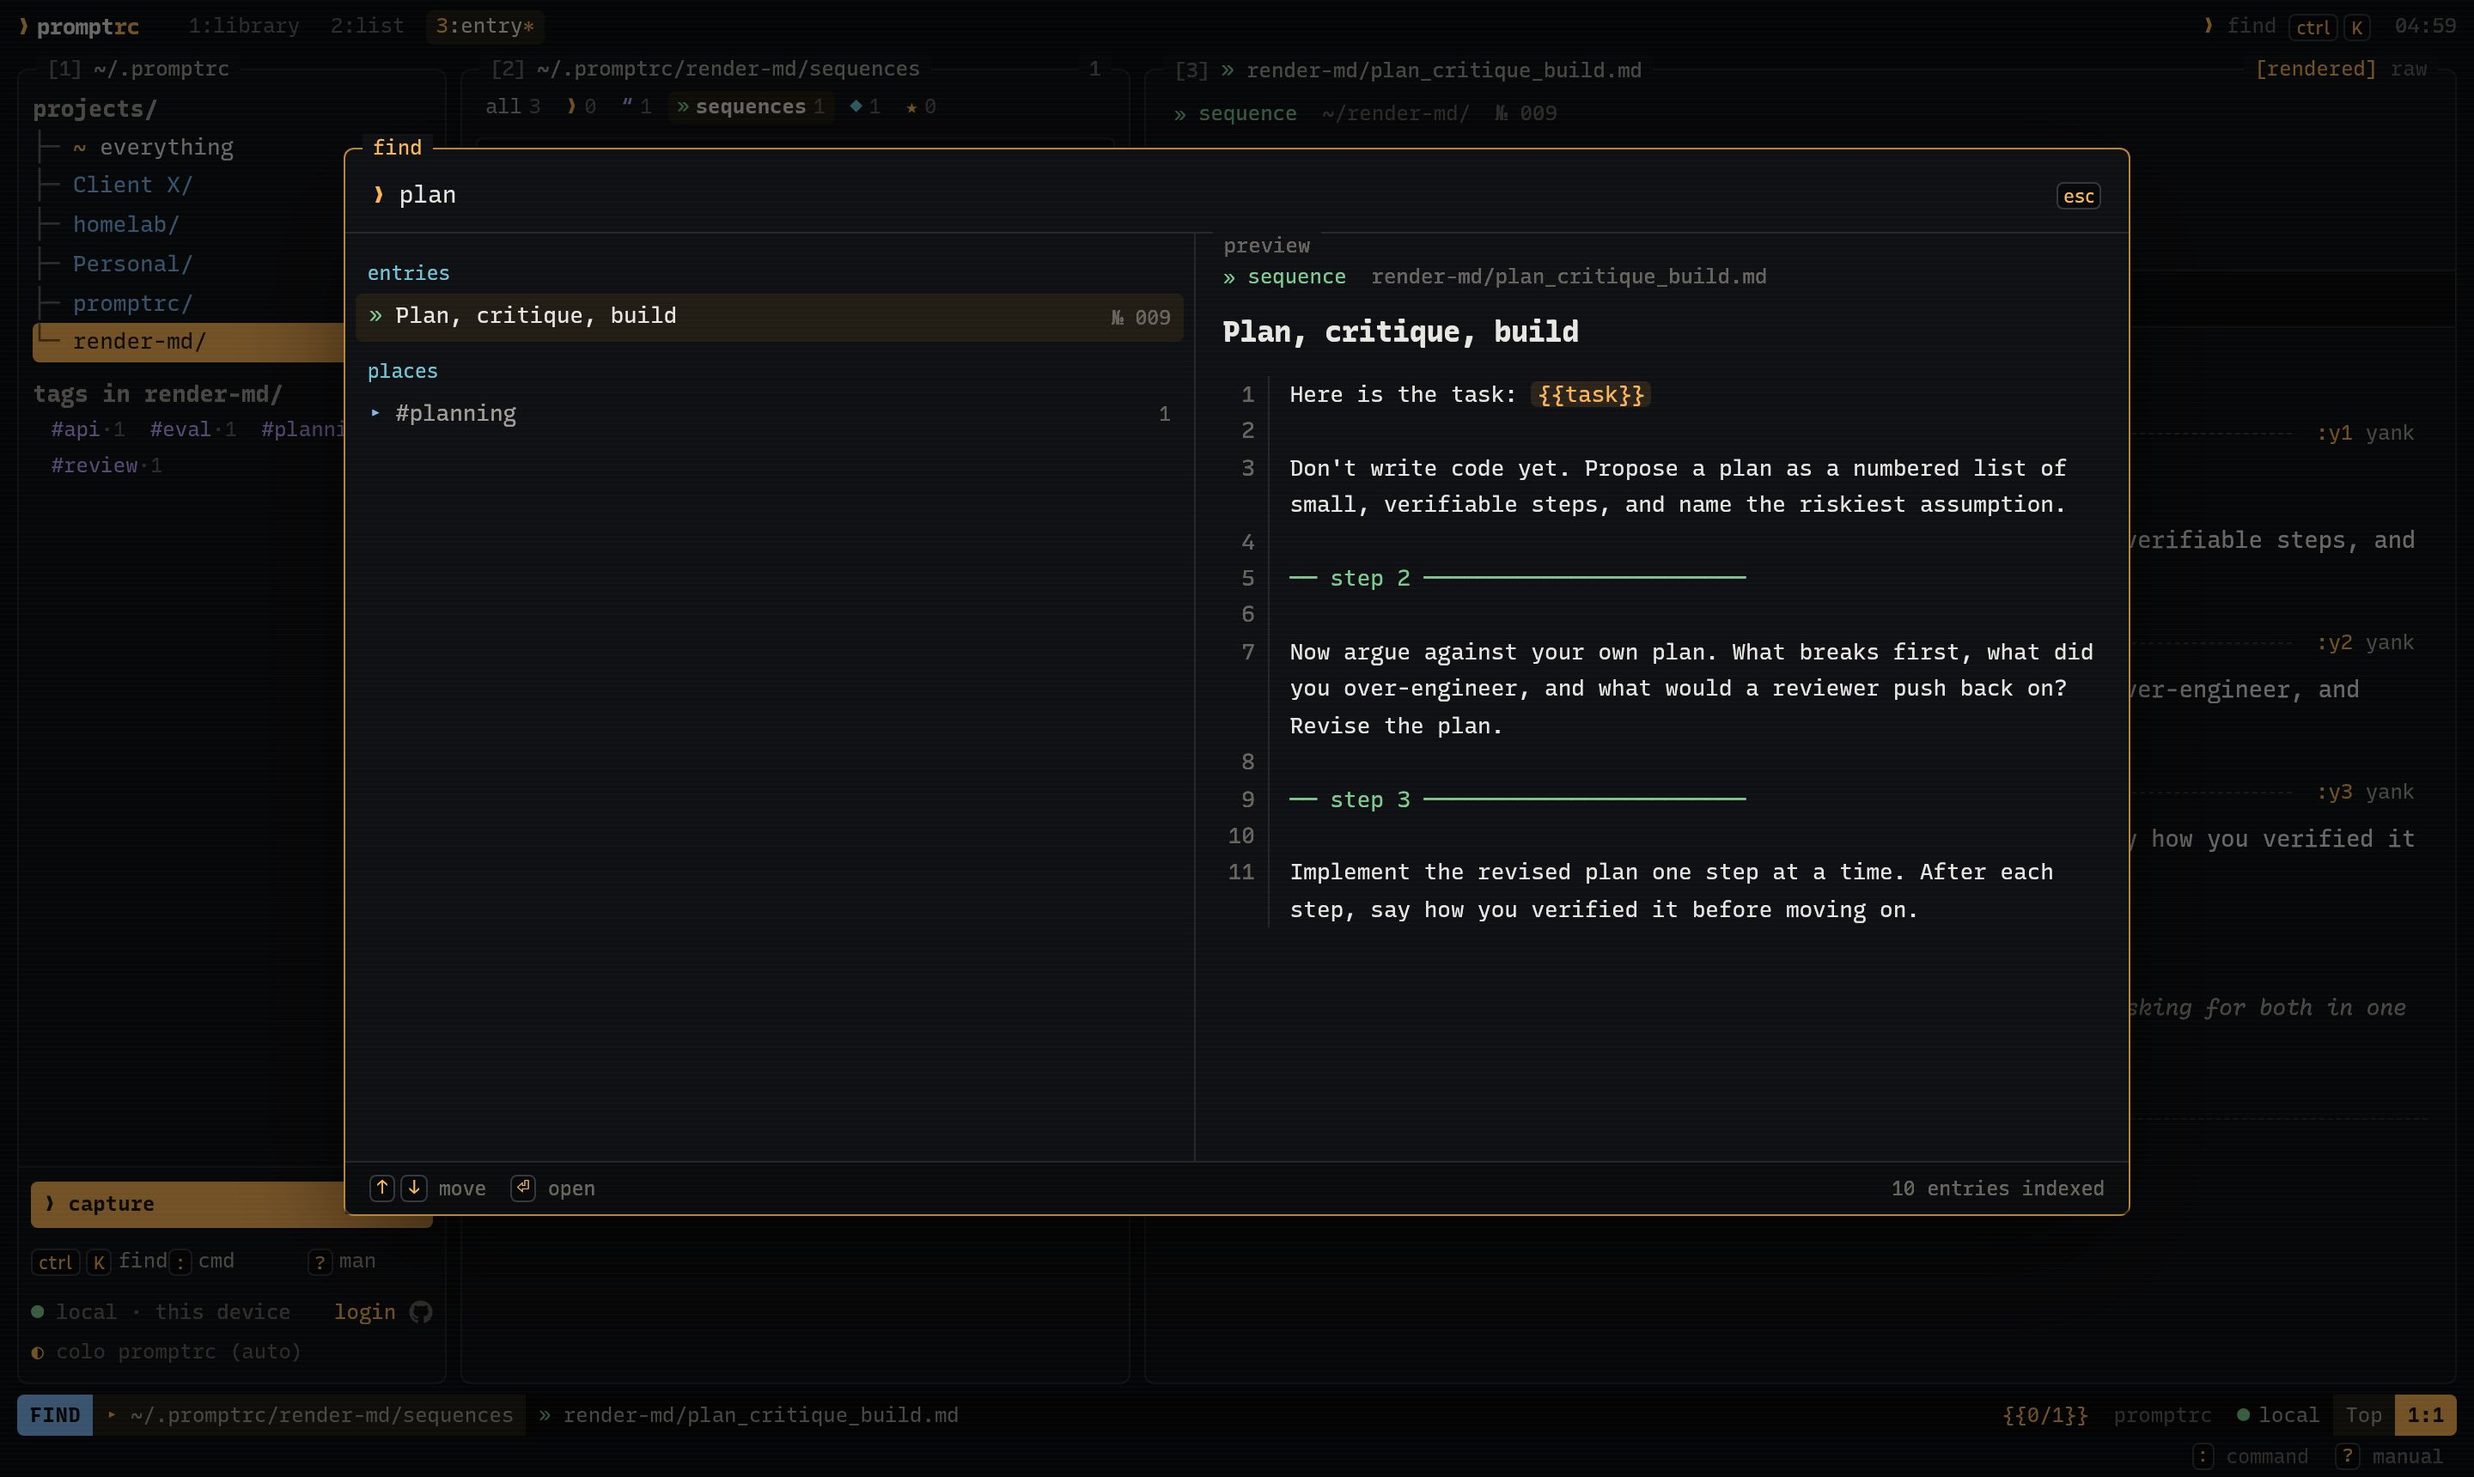
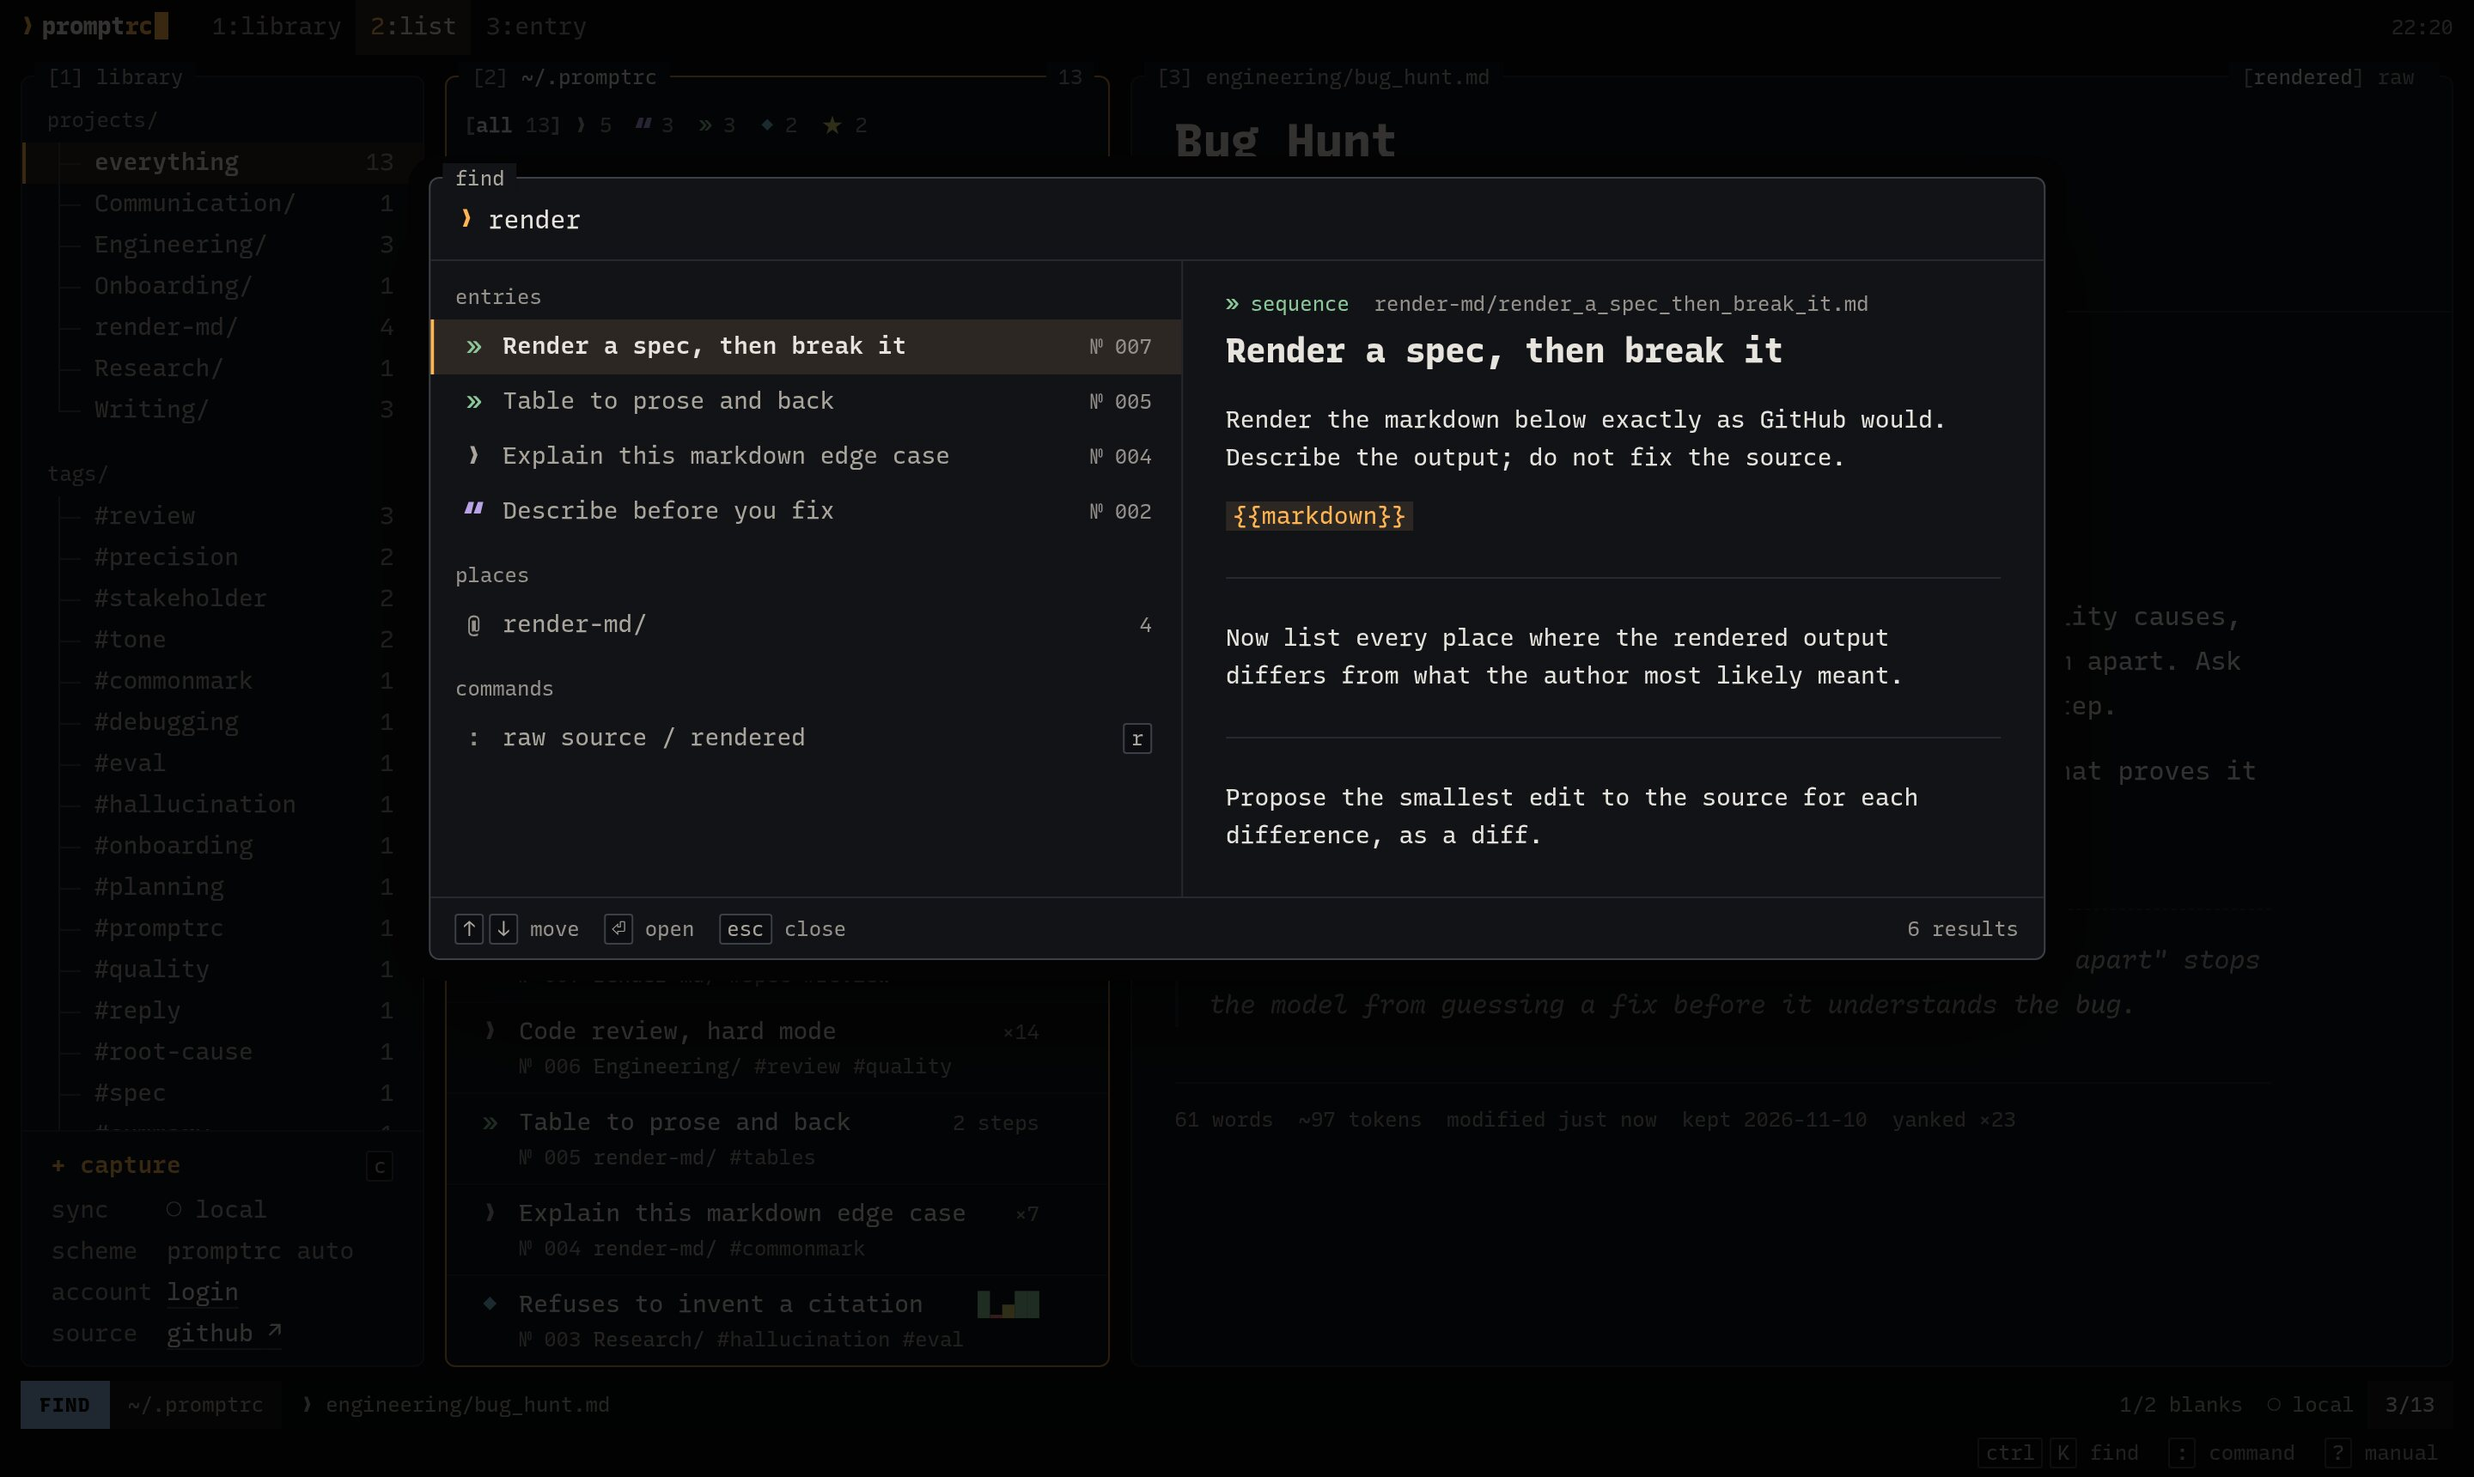
Refresh the README screenshots for the new look

diff --git a/README.md b/README.md
@@ -38,7 +38,7 @@ Every entry lives in a **project** and can carry **notes** (why it works, what g
   </tr>
   <tr>
     <td width="50%"><img src="docs/screenshots/command-line.jpg" alt="The vim-style command line open at the bottom of the screen, with a wildmenu completing :cd with project names" /></td>
-    <td width="50%"><img src="docs/screenshots/finder.jpg" alt="The Telescope-style finder: results on the left, a line-numbered preview of the highlighted sequence on the right" /></td>
+    <td width="50%"><img src="docs/screenshots/finder.jpg" alt="The Telescope-style finder: results on the left, a rendered preview of the highlighted sequence on the right" /></td>
   </tr>
   <tr>
     <td align="center"><sub><kbd>:</kbd> — the command line, with completion and history</sub></td>
@@ -63,8 +63,8 @@ Every entry lives in a **project** and can carry **notes** (why it works, what g
 - **Capture in seconds** — <kbd>c</kbd> floats a capture shell over whatever you're doing. Paste, pick a kind, <kbd>⌘</kbd><kbd>↵</kbd>. The title comes from the first line if you skip it.
 - **Fill-in blanks** — write `{{audience}}` or `{{tone | calm}}`; the viewer turns them into slots you type straight into, and remembers what you typed per entry.
 - **glow and bat** — read entries rendered, or press <kbd>r</kbd> for the raw markdown with line numbers and syntax colour.
-- **Benchmarks as a test runner** — `:log claude-opus-5-5 pass decision led` records a run; the ledger shows ✓/~/✗ rows, a pass rate and a sparkline.
-- **Seven colorschemes** — `:colorscheme promptrc | daylight | phosphor | green-screen | tokyo-night | catppuccin | gruvbox`. The phosphor and green-screen CRTs get scanlines, glow and a vignette.
+- **Benchmarks as a test runner** — `:log claude-opus-5-5 pass decision led` records a run; the ledger shows ✓/≈/✗ rows, a pass rate and a sparkline.
+- **Seven colorschemes** — `:colorscheme promptrc | daylight | phosphor | green-screen | tokyo-night | catppuccin | gruvbox`. The phosphor and green-screen CRTs get a trace of scanlines, glow and a vignette.
 - **Local-first, cloud-optional** — everything works signed out (stored in your browser). `:login` to sync to Cloudflare D1 and share read-only links.
 
 <img src="docs/screenshots/colorschemes.jpg" alt="The same benchmark in six colorschemes: promptrc, daylight, green-screen, catppuccin, gruvbox and phosphor" width="100%" />
